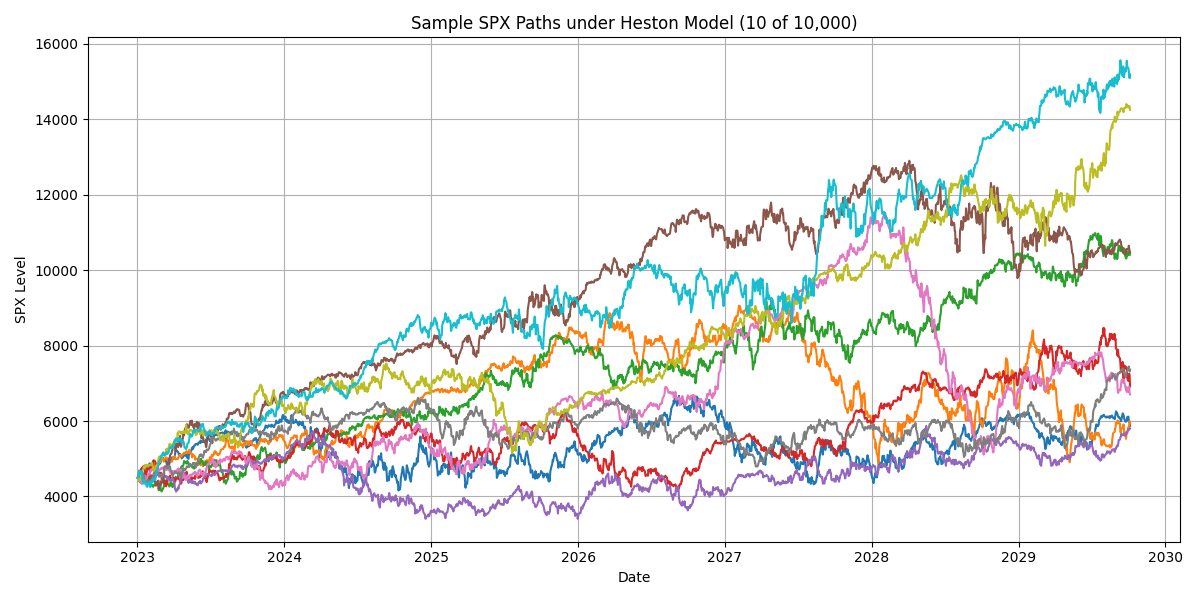
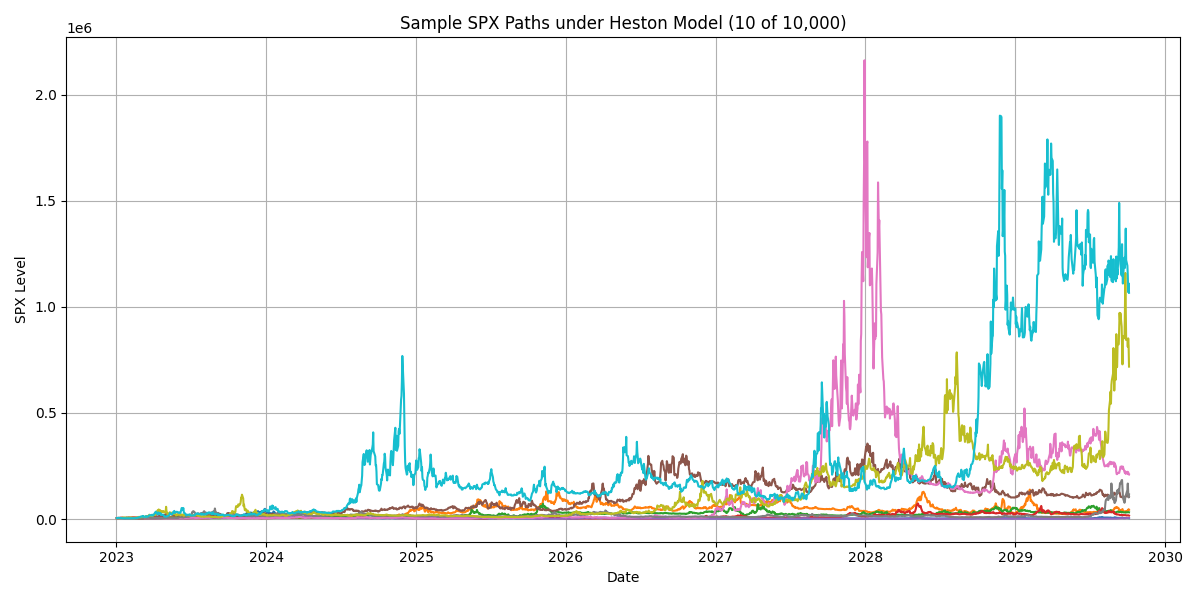
Update files and add new work

diff --git a/Code/6_heston_calibrate.py b/Code/6_heston_calibrate.py
@@ -1,0 +1,102 @@
+import numpy as np
+import pandas as pd
+from scipy.optimize import minimize
+from heston_pricing_carr_madan import carr_madan_call_price
+from bs_utils import bs_implied_vol
+
+# ✅ LOAD MARKET SNAPSHOT
+snapshot_date = '2018-06-01'
+market_data = pd.read_csv(f'Data/SPX_Snapshot_{snapshot_date}.csv')
+
+# ✅ FIXED GLOBAL PARAMETERS
+S0 = 4500
+r = 0.02
+q = 0.01
+
+# ✅ LOSS FUNCTION
+def calibration_loss(params, data):
+    v0, kappa, theta, sigma_v, rho = params
+
+    # Penalize unphysical parameter regions
+    if (v0 < 0 or v0 > 2 or
+        kappa <= 0 or kappa > 10 or
+        theta < 0 or theta > 2 or
+        sigma_v <= 0 or sigma_v > 5 or
+        not (-0.999 < rho < 0.999)):
+        return 1e6
+
+    errors = []
+
+    for _, row in data.iterrows():
+        K = row['strike']
+        T = row['maturity_days'] / 365.0
+        market_iv = row['impl_volatility']
+
+        try:
+            model_price = carr_madan_call_price(
+                S0, K, T, r, q,
+                v0, kappa, theta, sigma_v, rho,
+                alpha=2.5,    # More stable
+                u_max=100,    # Tighter integration grid
+                N=1000
+            )
+
+            model_iv = bs_implied_vol(model_price, S0, K, T, r, q)
+
+            # Handle failures or nonsense results
+            if np.isnan(model_iv) or model_iv < 0.0001 or model_iv > 5:
+                error = 1e2
+            else:
+                error = (model_iv - market_iv) ** 2
+
+        except Exception as e:
+            error = 1e2  # Penalize crashes
+
+        errors.append(error)
+
+    mean_error = np.mean(errors)
+    print(f"✅ Loss: {mean_error:.6f} for params: {params}")
+    return mean_error
+
+# ✅ INITIAL GUESS
+initial_params = [0.04, 2.0, 0.04, 0.3, -0.7]
+
+# ✅ BOUNDS
+bounds = [
+    (0.0001, 2.0),    # v0
+    (0.1, 10.0),      # kappa
+    (0.0001, 2.0),    # theta
+    (0.01, 5.0),      # sigma_v
+    (-0.999, 0.999)   # rho
+]
+
+# ✅ RUN OPTIMIZER
+result = minimize(
+    calibration_loss,
+    initial_params,
+    args=(market_data,),
+    bounds=bounds,
+    method='L-BFGS-B',
+    options={'disp': True, 'maxiter': 200}
+)
+
+# ✅ PRINT RESULTS
+print("\n✅ Calibration complete!")
+print("Calibrated parameters:")
+print(f"v0:      {result.x[0]:.4f}")
+print(f"kappa:   {result.x[1]:.4f}")
+print(f"theta:   {result.x[2]:.4f}")
+print(f"sigma_v: {result.x[3]:.4f}")
+print(f"rho:     {result.x[4]:.4f}")
+
+# ✅ SAVE TO CSV
+out_df = pd.DataFrame([{
+    'v0': result.x[0],
+    'kappa': result.x[1],
+    'theta': result.x[2],
+    'sigma_v': result.x[3],
+    'rho': result.x[4]
+}])
+
+out_df.to_csv(f'Output/heston_calibrated_params_{snapshot_date}.csv', index=False)
+print(f"✅ Saved to Output/heston_calibrated_params_{snapshot_date}.csv")

diff --git a/Code/6_heston_calibrate_de.py b/Code/6_heston_calibrate_de.py
@@ -1,0 +1,99 @@
+import numpy as np
+import pandas as pd
+from scipy.optimize import differential_evolution
+from heston_pricing_carr_madan import carr_madan_call_price
+from bs_utils import bs_implied_vol
+
+# ✅ Load market snapshot
+snapshot_date = '2018-06-01'
+market_data = pd.read_csv(f'Data/SPX_Snapshot_{snapshot_date}.csv')
+
+# ✅ Fixed global parameters
+S0 = 4500
+r = 0.02
+q = 0.01
+
+# ✅ Loss function
+def calibration_loss(params, data):
+    v0, kappa, theta, sigma_v, rho = params
+
+    # Penalize unphysical parameter regions
+    if (v0 < 0 or v0 > 2 or
+        kappa <= 0 or kappa > 12 or
+        theta < 0 or theta > 2 or
+        sigma_v <= 0 or sigma_v > 5 or
+        not (-0.999 < rho < 0.999)):
+        return 1e6
+
+    errors = []
+
+    for _, row in data.iterrows():
+        K = row['strike']
+        T = row['maturity_days'] / 365.0
+        market_iv = row['impl_volatility']
+
+        try:
+            # Model price with safer Carr-Madan settings
+            model_price = carr_madan_call_price(
+                S0, K, T, r, q,
+                v0, kappa, theta, sigma_v, rho,
+                alpha=2.5,
+                u_max=80,      # Tighter grid reduces blowups
+                N=800
+            )
+
+            # Convert to implied vol
+            model_iv = bs_implied_vol(model_price, S0, K, T, r, q)
+
+            if np.isnan(model_iv) or model_iv < 0.0001 or model_iv > 5:
+                error = 100.0
+            else:
+                error = (model_iv - market_iv) ** 2
+
+        except Exception:
+            error = 100.0
+
+        errors.append(error)
+
+    mean_error = np.mean(errors)
+    print(f"Loss: {mean_error:.6f} for params: {params}")
+    return mean_error
+
+# ✅ Define bounds (wider for exploration)
+bounds = [
+    (0.0001, 1.5),    # v0
+    (0.05, 12.0),     # kappa
+    (0.0001, 1.5),    # theta
+    (0.01, 4.0),      # sigma_v
+    (-0.999, 0.999)   # rho
+]
+
+# ✅ Run global optimizer
+result = differential_evolution(
+    calibration_loss,
+    bounds=bounds,
+    args=(market_data,),
+    maxiter=80,
+    disp=True,
+    polish=True
+)
+
+# ✅ Print final parameters
+print("\n✅ Calibration complete!")
+print("Calibrated parameters:")
+print(f"v0:      {result.x[0]:.4f}")
+print(f"kappa:   {result.x[1]:.4f}")
+print(f"theta:   {result.x[2]:.4f}")
+print(f"sigma_v: {result.x[3]:.4f}")
+print(f"rho:     {result.x[4]:.4f}")
+
+# ✅ Save to CSV
+out_df = pd.DataFrame([{
+    'v0': result.x[0],
+    'kappa': result.x[1],
+    'theta': result.x[2],
+    'sigma_v': result.x[3],
+    'rho': result.x[4]
+}])
+out_df.to_csv(f'Output/heston_calibrated_params_{snapshot_date}_DE.csv', index=False)
+print(f"✅ Saved to Output/heston_calibrated_params_{snapshot_date}_DE.csv")

diff --git a/Code/bs_utils.py b/Code/bs_utils.py
@@ -1,0 +1,46 @@
+import numpy as np
+from scipy.stats import norm
+from scipy.optimize import brentq
+
+def bs_price_call(S, K, T, r, q, sigma):
+    """
+    Black-Scholes price for a European call.
+    """
+    if T <= 0:
+        return max(S * np.exp(-q * T) - K * np.exp(-r * T), 0)
+    
+    d1 = (np.log(S / K) + (r - q + 0.5 * sigma ** 2) * T) / (sigma * np.sqrt(T))
+    d2 = d1 - sigma * np.sqrt(T)
+    price = S * np.exp(-q * T) * norm.cdf(d1) - K * np.exp(-r * T) * norm.cdf(d2)
+    return price
+
+def bs_implied_vol(price, S, K, T, r, q, tol=1e-6):
+    """
+    Numerical inversion of BS formula to get implied vol.
+    """
+    if price < max(S * np.exp(-q * T) - K * np.exp(-r * T), 0) + 1e-5:
+        return 0.0001  # Near-zero vol
+
+    def objective(sigma):
+        return bs_price_call(S, K, T, r, q, sigma) - price
+
+    try:
+        iv = brentq(objective, 1e-5, 5.0, xtol=tol)
+    except ValueError:
+        iv = np.nan
+    return iv
+
+if __name__ == "__main__":
+    # Quick test
+    S = 4500
+    K = 4500
+    T = 1.0
+    r = 0.02
+    q = 0.01
+    sigma = 0.25
+
+    price = bs_price_call(S, K, T, r, q, sigma)
+    print(f"✅ BS price: {price:.2f}")
+
+    iv = bs_implied_vol(price, S, K, T, r, q)
+    print(f"✅ Inverted IV: {iv:.4f}")

diff --git a/Code/8_simulate_spx_heston.py b/Code/8_simulate_spx_heston.py
@@ -9,16 +9,16 @@ np.random.seed(42)
 
 # Heston model parameters
 S0 = 4500            # initial SPX level
-V0 = 0.04            # initial variance
+v0 = 0.8914          # initial variance
 mu = get_r_minus_q(
     '2018-01-03',
     'Data/Dividend Yield Data/SPX_Implied_Yield_Rates_2018_2023.csv',
-    'Data/Risk-Free Yield Curve/Interest_Rate_Curves_2018_2023.csv'
+    'Data/Risk-Free Yield Curve/Interest_Rate_Curves_2018_2023_CLEANED.csv'
 )                    # drift
-kappa = 2.0          # mean reversion speed
-theta = 0.04         # long-run variance
-sigma_v = 0.3        # vol of vol
-rho = -0.7           # correlation between W1 and W2
+kappa = 4.5387        # mean reversion speed
+theta = 1.4995       # long-run variance
+sigma_v = 3.9726        # vol of vol
+rho = 0.8825           # correlation between W1 and W2
 T = 7                # time horizon in years
 N = 252 * T          # number of steps
 dt = T / N
@@ -28,7 +28,7 @@ n_paths = 10000
 S = np.zeros((N + 1, n_paths))
 V = np.zeros((N + 1, n_paths))
 S[0] = S0
-V[0] = V0
+V[0] = v0
 
 # Generate correlated Brownian motions
 Z1 = np.random.normal(size=(N, n_paths))

diff --git a/Code/utils.py b/Code/utils.py
@@ -19,6 +19,7 @@ def get_r_minus_q(sim_date, dividend_file, riskfree_file, maturity_days=365):
     # Find nearest date in risk-free data
     rf_rows = df_rf.iloc[(df_rf['date'] - pd.Timestamp(sim_date)).abs().argsort()[:1]]
     # Choose the maturity closest to desired (e.g. 1-year)
+    rf_rows = rf_rows.copy()
     rf_rows['abs_maturity'] = (rf_rows['maturity_days'] - maturity_days).abs()
     rf_row = rf_rows.iloc[rf_rows['abs_maturity'].argsort()[:1]]
     r = rf_row['rate'].values[0]
@@ -37,6 +38,7 @@ def get_r_for_discounting(sim_date, riskfree_file, maturity_days=365):
     
     # Find nearest date
     rf_rows = df_rf.iloc[(df_rf['date'] - pd.Timestamp(sim_date)).abs().argsort()[:1]]
+    rf_rows = rf_rows.copy()
     rf_rows['abs_maturity'] = (rf_rows['maturity_days'] - maturity_days).abs()
     rf_row = rf_rows.iloc[rf_rows['abs_maturity'].argsort()[:1]]
     r = rf_row['rate'].values[0]

diff --git a/Code/riskfree_clean_prepare.py b/Code/riskfree_clean_prepare.py
@@ -1,0 +1,18 @@
+import pandas as pd
+
+# Load full risk-free data
+df = pd.read_csv("Data/Risk-Free Yield Curve/Interest_Rate_Curves_2018_2023.csv")
+
+# Rename for clarity (optional but helpful)
+df = df.rename(columns={"days": "maturity_days"})
+
+# Convert date column
+df['date'] = pd.to_datetime(df['date'], errors='coerce')
+
+# Keep only needed columns
+clean_df = df[['date', 'maturity_days', 'rate']]
+
+# Save cleaned file
+clean_df.to_csv("Data/Risk-Free Yield Curve/Interest_Rate_Curves_2018_2023_CLEANED.csv", index=False)
+
+print("✅ Cleaned and saved risk-free curve data to '...CLEANED.csv'")
